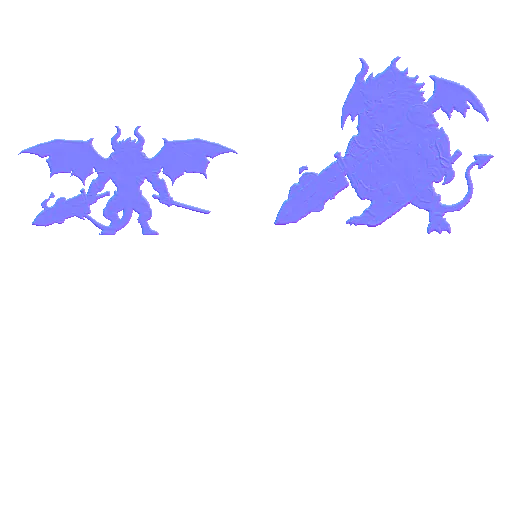
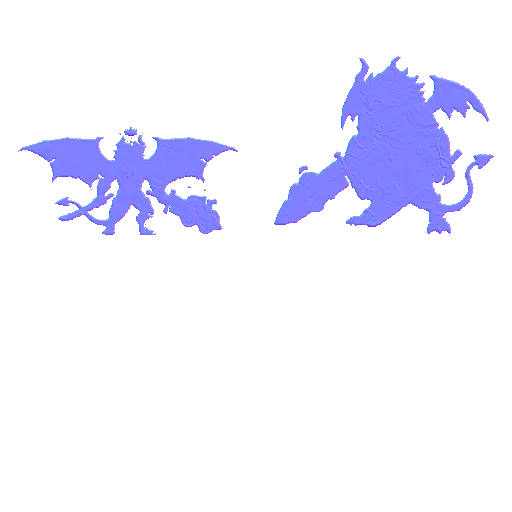
sprites: astaroth's back is the user's new video, a 25-page loop
Frames 48 to 120 of the clip at 8 fps (125 ms pages, 3.1 s), picked where the
last frame best meets the first so it loops without a jump; each frame keyed off
the flat grey and its ground shadow, video noise dropped, mirrored to face right.
Only a-099 and the astaroth-back flipbook change; the anim set stays at q80/q80,
25.82 of 26.21 MB, the static build 54.15 MB.

Changed region(s): [[0.0625, 0.25, 0.4375, 0.4688], [0.0312, 0.25, 0.0938, 0.3125], [0.4062, 0.2812, 0.4688, 0.3125]]

diff --git a/packages/client/test/spriteCatalog.test.ts b/packages/client/test/spriteCatalog.test.ts
@@ -135,9 +135,9 @@ describe.skipIf(!existsSync(REAL))('sprite catalog on the shipped manifest', () 
         const a = d[side].anim!;
         const set = cat.animAtlas(a.atlas)!;
         expect(a.rects.length, `${id}/${side}`).toBe(a.delaysMs.length);
-        // astaroth's back loop (from the user's video) is 18 pages, its static frame the widest pose (frame-select.json)
+        // astaroth's back loop (from the user's second video, 2026-10-27) is 25 pages, its static frame the widest pose (frame-select.json)
         expect(a.rects.length, `${id}/${side}`).toBeGreaterThanOrEqual(18);
-        expect(a.staticFrame).toBe(id === 'astaroth' && side === 'back' ? 13 : 0);
+        expect(a.staticFrame).toBe(id === 'astaroth' && side === 'back' ? 21 : 0);
         expect(set.cell).toBe(512);
         expect(Math.max(set.width, set.height)).toBeLessThanOrEqual(8192);
         for (const r of a.rects) {

diff --git a/tools/sprite-pipeline/README.md b/tools/sprite-pipeline/README.md
@@ -118,6 +118,8 @@ With soft alpha the bottom rung was 47.3 MB, over budget; the spec's 32 MB estim
 
 2026-10-27: every sprite rect carries `bodyV`, the share of its 1024² cell the creature fills at the atlas's binary alpha (`bodyVOf`; a meta cached before then is measured from its cached albedo). The renderer sizes the card by it so a creature stands exactly its species' `heightM`. The rects of the shipped build were backfilled from the atlases, no atlas changed; the manifest grew 10,075 B, so the build is **54.14 MB** (0.37 MB under the ceiling).
 
+2026-10-27: `astaroth(back).webp` is new art from the user's second video (1280x720, 24 fps, 10 s, flat grey (54, 58, 60) with a neutral (34, 35, 38) ground shadow): frames 48 to 120 sampled every third frame (8 fps, 25 pages of 125 ms), the loop picked where the last frame best meets the first (seam difference 2.17 against a 3.40 mean step, before the head turn); each frame keyed by a border flood over neutral greys of luminance 29 to 72 (chroma within 10, blue not below red, so the red-leaning blacks stay), enclosed grey pockets of 700 px or more cleared, a two-pass rim peel of grey blends, only the body and pieces within 40 px of it kept (the sword's smoke, not the video noise), binary alpha, mirrored so it faces right; one shared crop (1132x608), animated lossless WebP looping forever. `frame-select.json` shows page 21, the widest. The anim set stays at its q80 / q80 rung, **25.82 MB** of 26.21; the static build **54.15 MB**.
+
 `packages/client/public/creatures/` after the 2026-10-06 build (`PIPELINE_VERSION` 6, `SPRITE_STAGE_VERSION` 4: atlases composed from the true-colour cache), with the 2026-09-25 build (`PIPELINE_VERSION` 5, composed from the palette cache) for comparison:
 
 | Item | 2026-10-06 (v6) | 2026-09-25 (v5) |
